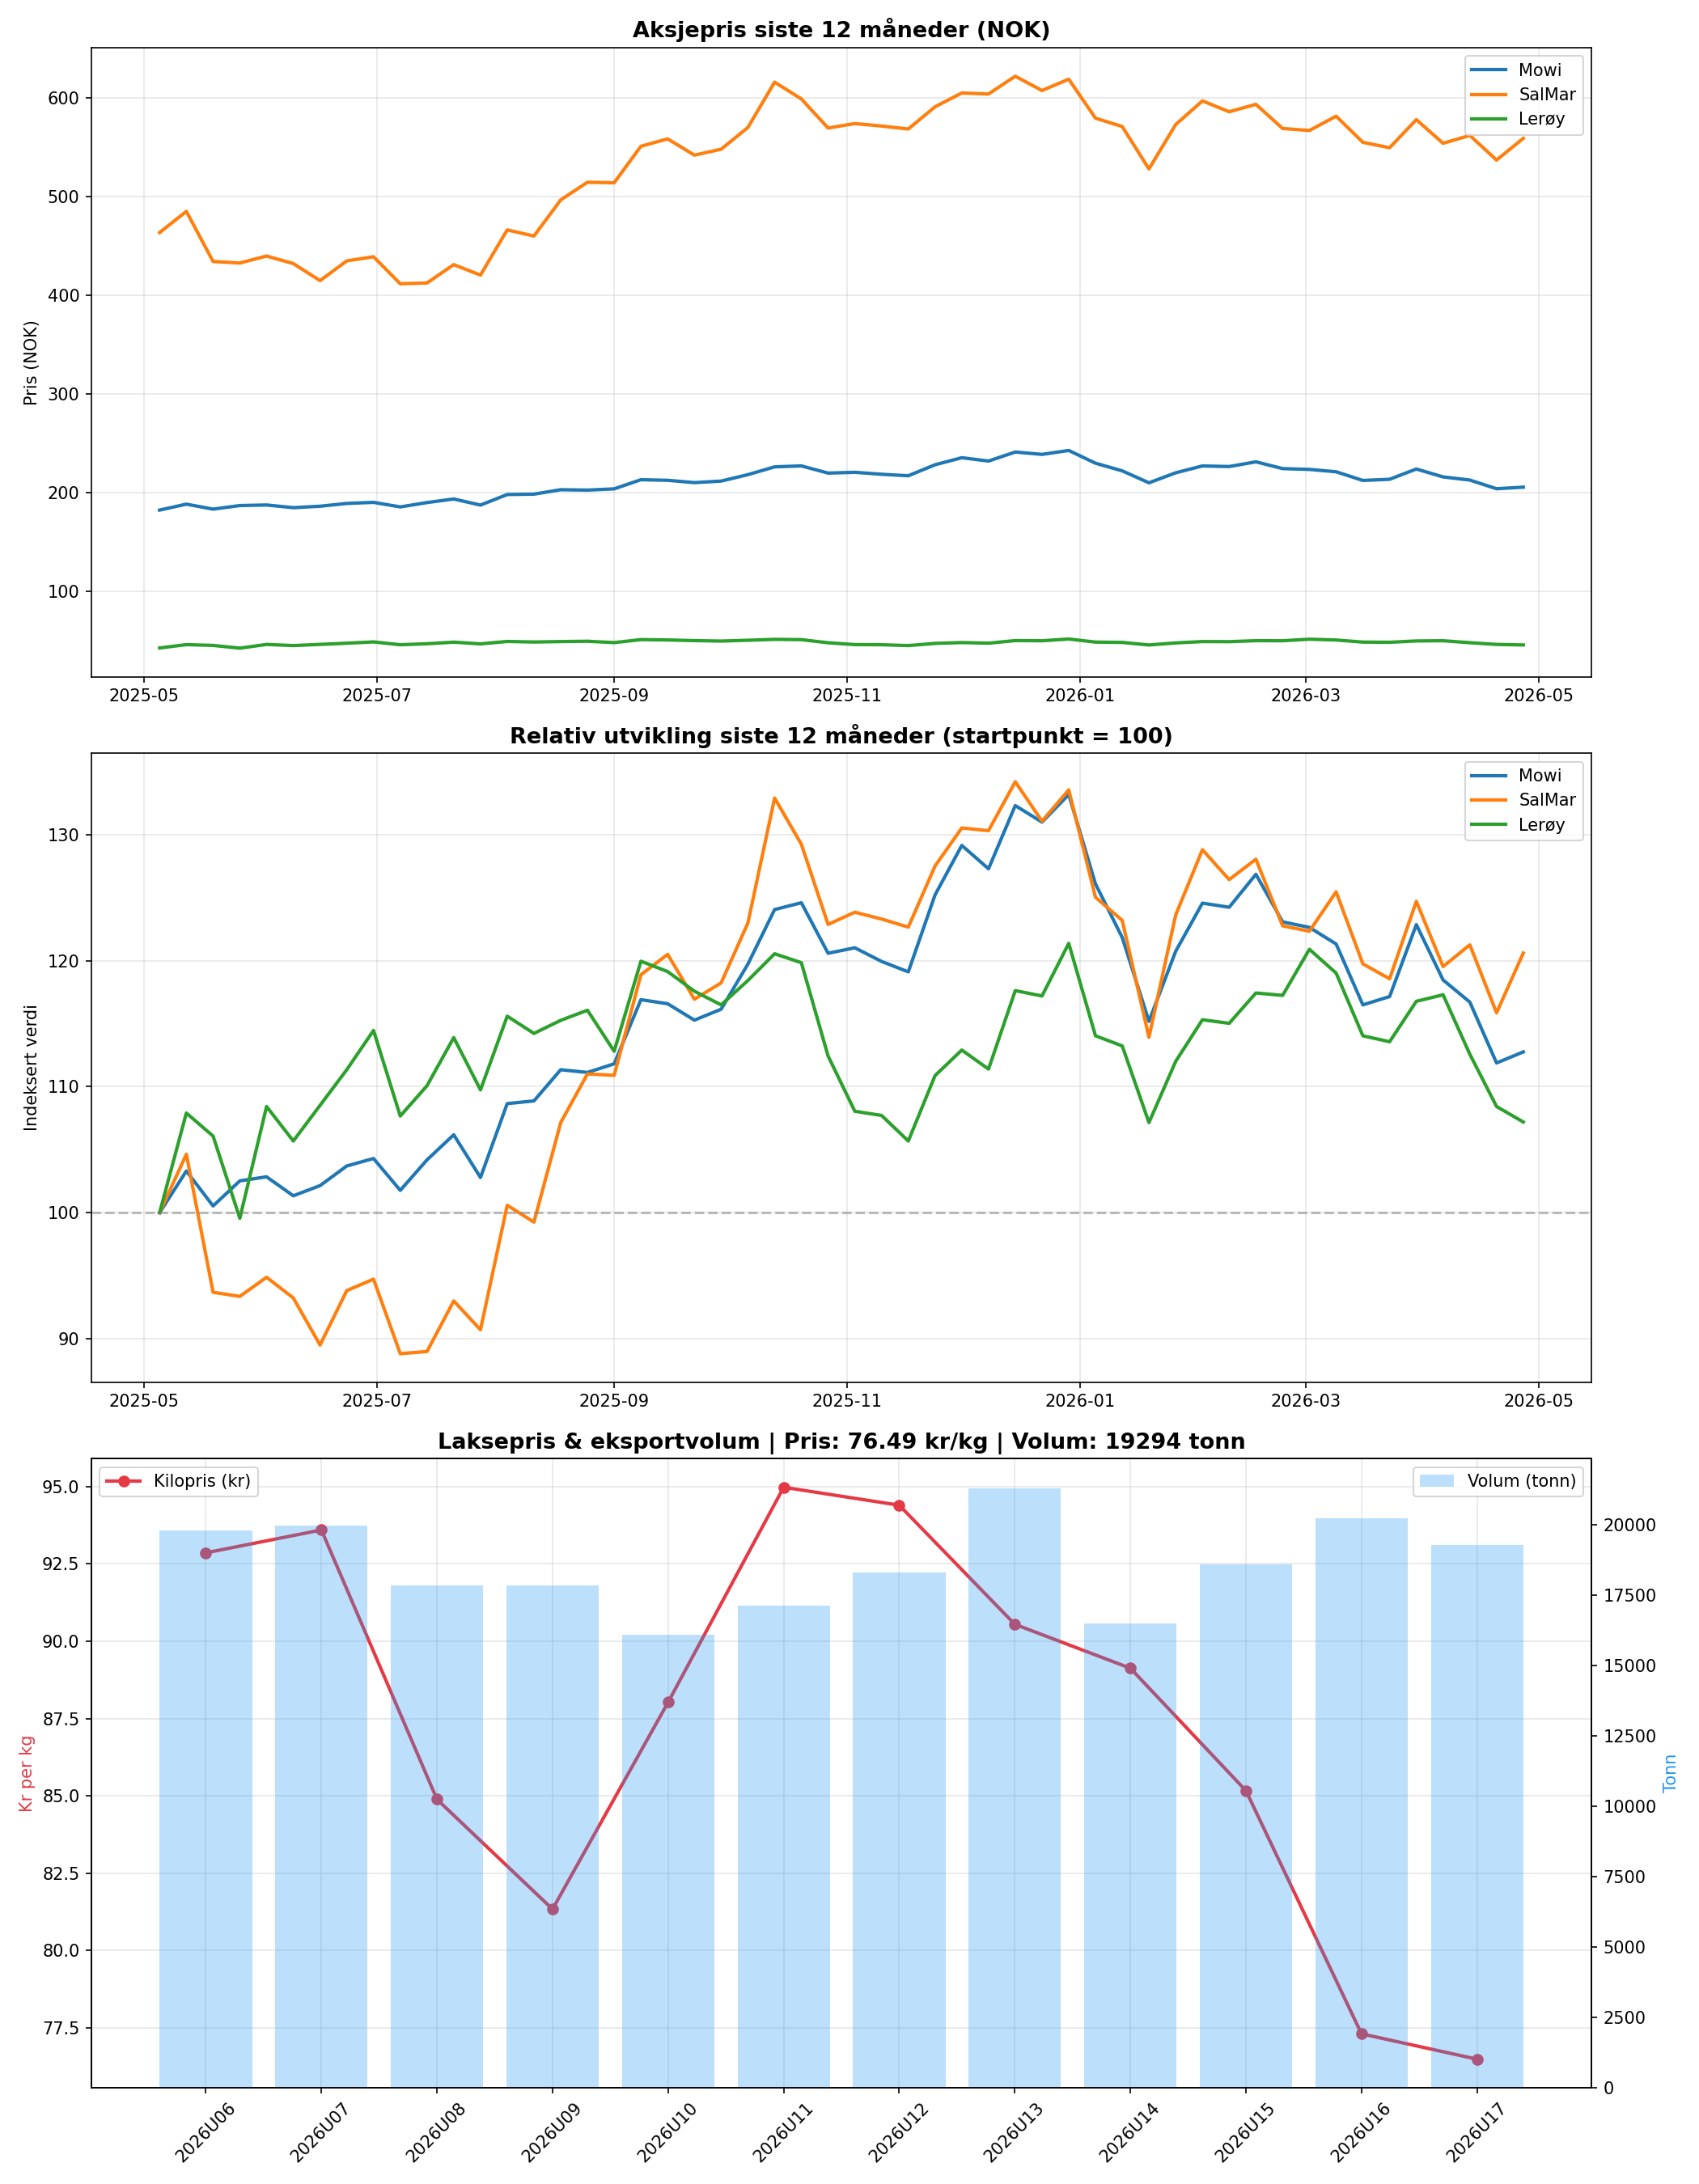
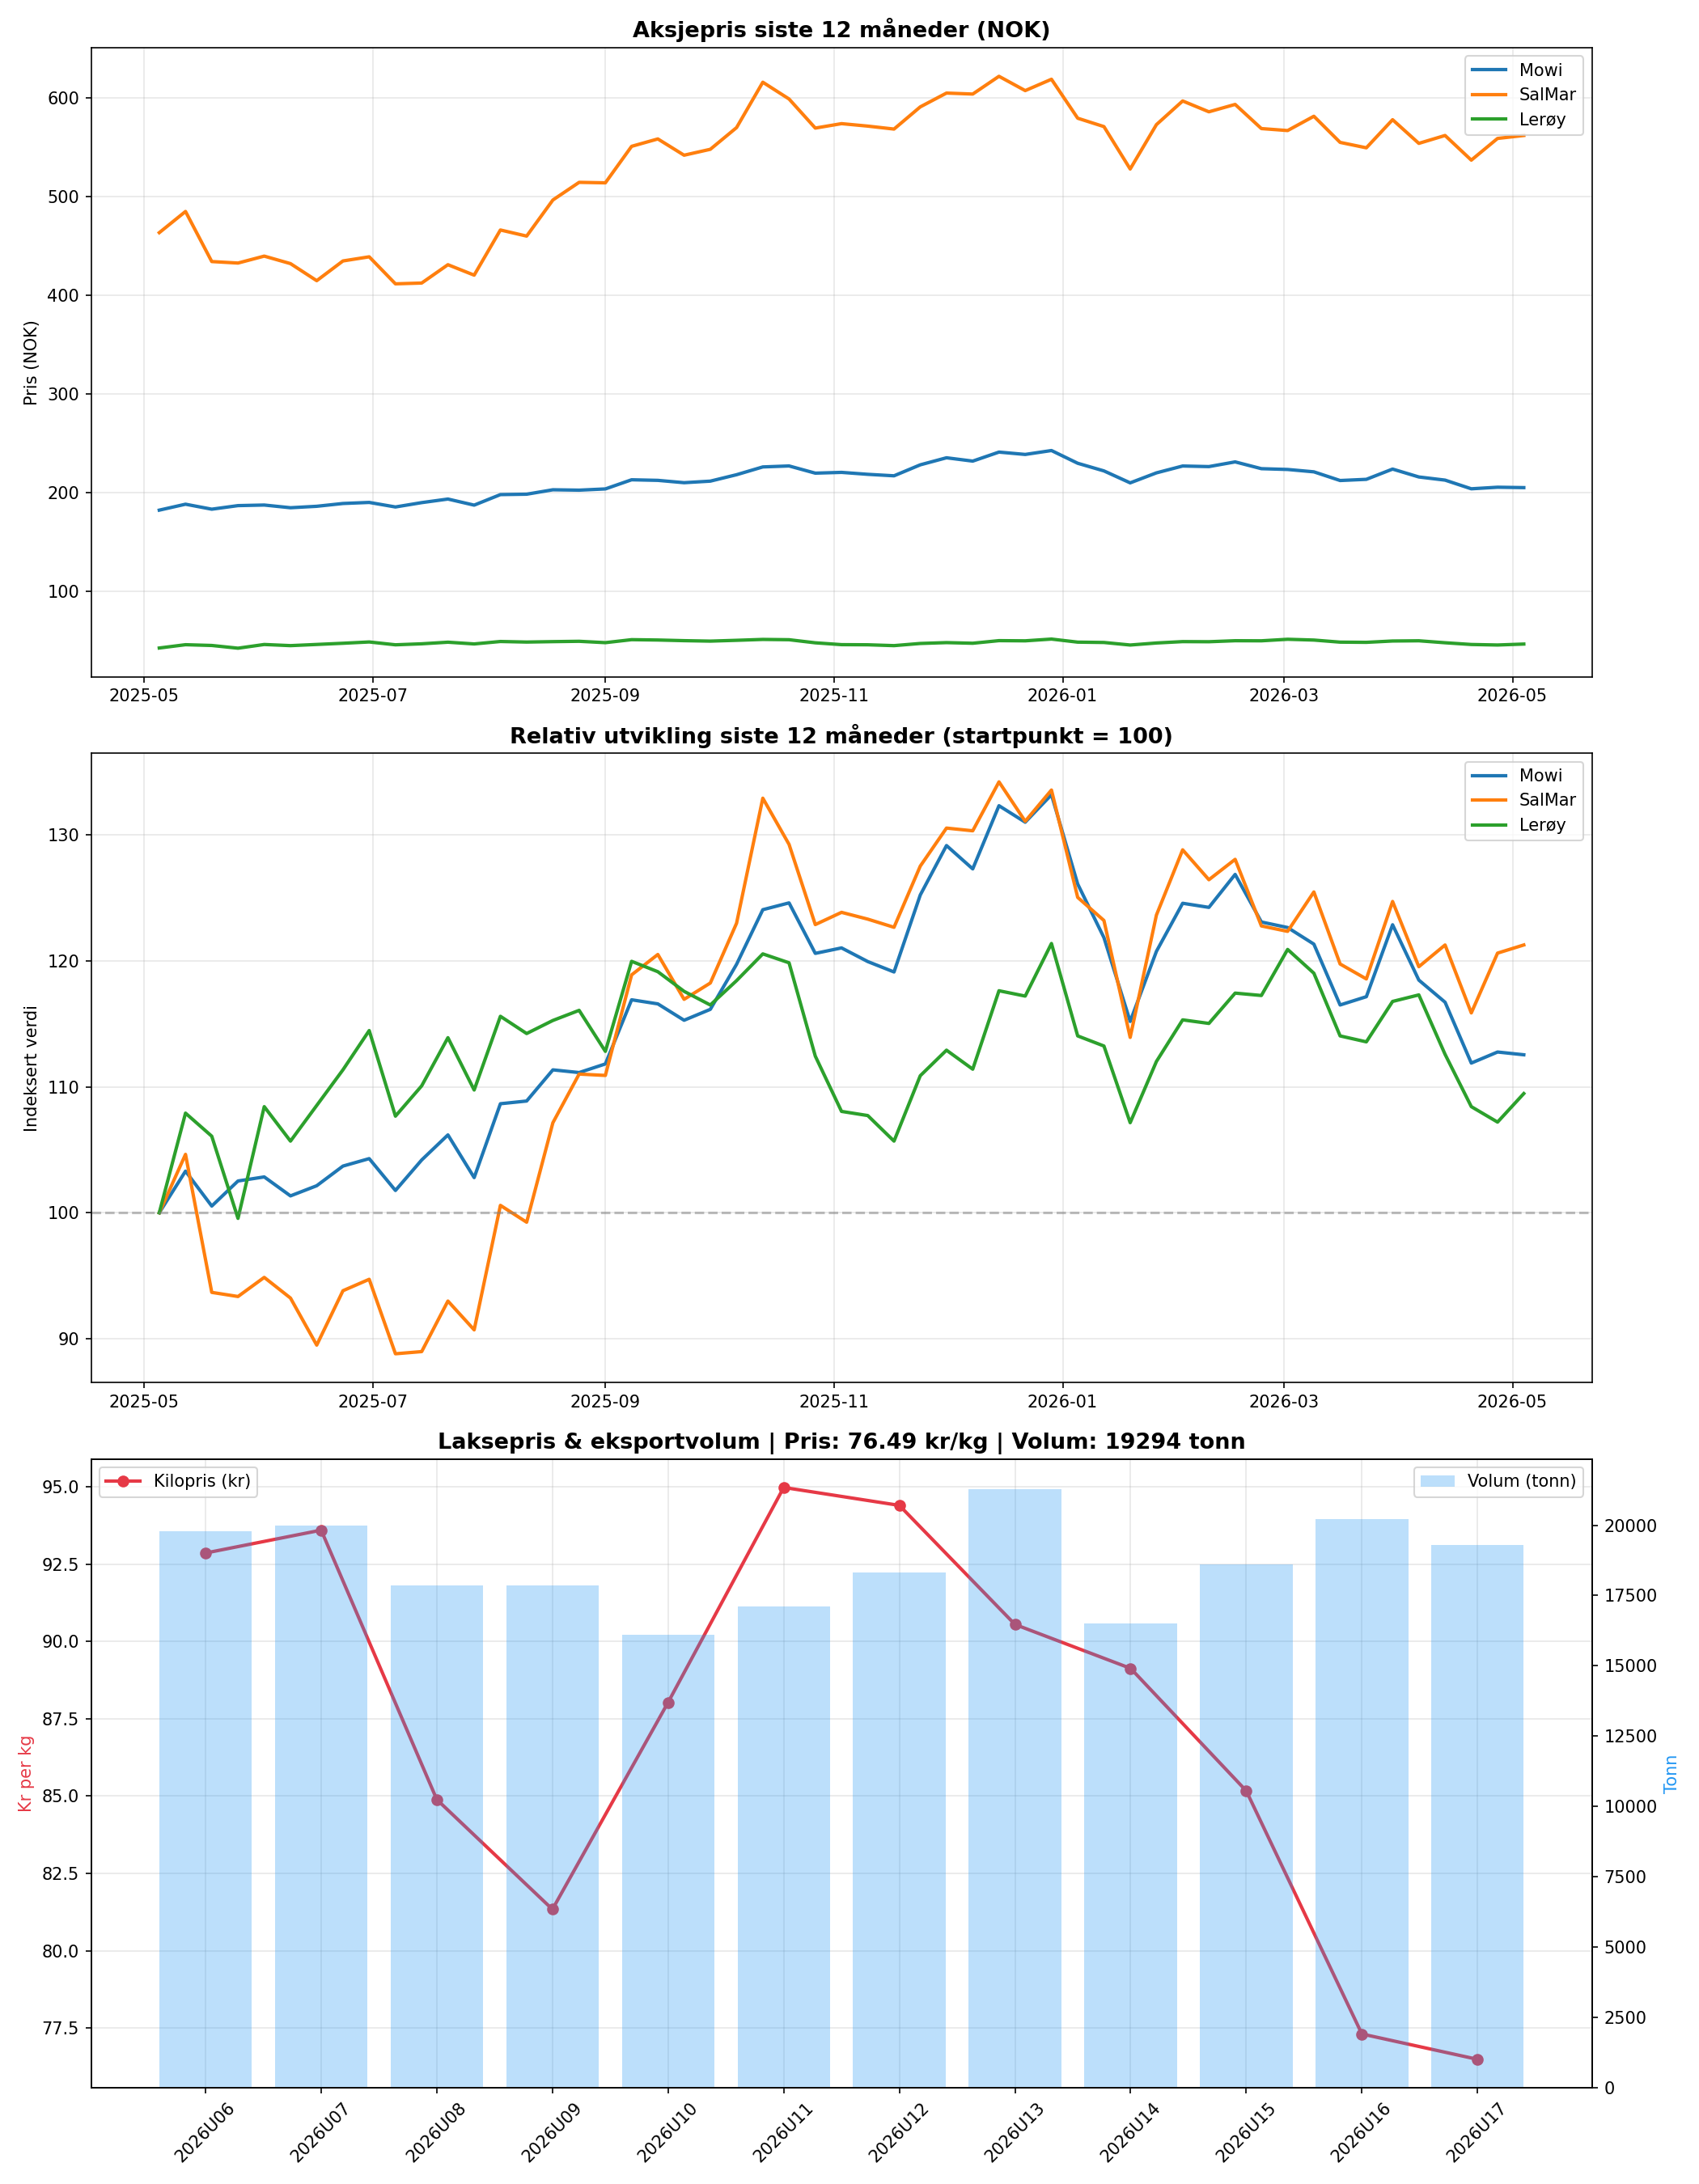
Update README with AI output examples and LinkedIn

diff --git a/README.md b/README.md
@@ -27,13 +27,36 @@ Three charts:
 2. Relative performance (indexed, base = 100)
 3. Export price per kg + export volume (dual axis)
 
-## Tech stack
+### AI-generated market analysis (example)
 
+    MARKET STATUS:
+    The salmon market is currently in a phase where prices have declined slightly,
+    with the latest price at 76.49 NOK/kg (-0.82 NOK/kg from last week).
+    Export volume stands at 19,294 tonnes (-930 tonnes from last week).
+
+    NEGOTIATION STRATEGY:
+    - Market is under pressure – prices have declined consistently since March
+    - Export volume is also falling, indicating weaker demand
+    - Leverage: "The data suggests further downside – target 75 NOK/kg"
+
+    RECOMMENDED PURCHASE PRICE: 75–76 NOK/kg this week
+
+### AI-generated PESTEL analysis (example)
+
+    E – Economic: Price 76.49 NOK/kg (-0.82). Volume 19,294 tonnes (-930).
+        Global aquaculture market projected at USD 626bn by 2035. (-)
+
+    T – Technological: Environmental DNA screening for disease detection now available.
+        Improved monitoring may increase production efficiency → lower prices (-)
+
+    WEEKLY SIGNAL: Current conditions favour buyers. Target below 76 NOK/kg. 
+## Tech stack
 - Python
 - yfinance, pandas, matplotlib (data and visualization)
 - Groq API + LLaMA 3.3 70B (AI-powered analysis and PESTEL)
 - SSB API (official Norwegian statistics)
 - NewsAPI (international news)
+- GitHub Actions (automated daily execution)
 
 ## Setup
 
@@ -41,6 +64,10 @@ Three charts:
 2. Install dependencies: `pip install yfinance pandas matplotlib groq python-dotenv newsapi-python feedparser requests`
 3. Create `.env` file with your API keys: `GROQ_API_KEY=your_key` and `NEWS_API_KEY=your_key`
 4. Run: `python3 main.py`
+
+## Automation
+
+The report runs automatically every day at 08:15 via GitHub Actions and sends the full analysis by email – no local machine required.
 
 ## Relevance to aquaculture data analysis
 
@@ -55,3 +82,9 @@ Next steps: integrate biological farming data (biomass, feed factor, growth rate
 ## Background
 
 Built to explore AI integration in the aquaculture industry. The architecture is designed to scale – additional data sources (biological KPIs, weather, sea temperature) can be added modularly.
+
+## Author
+
+Christoffer Myking Lone – [LinkedIn](https://www.linkedin.com/in/christofferlone)
+
+Bachelor in International Management, BI Norwegian Business School. 7 years experience in Norwegian salmon farming (Lerøy Seafood). Currently exploring AI integration in the aquaculture industry.